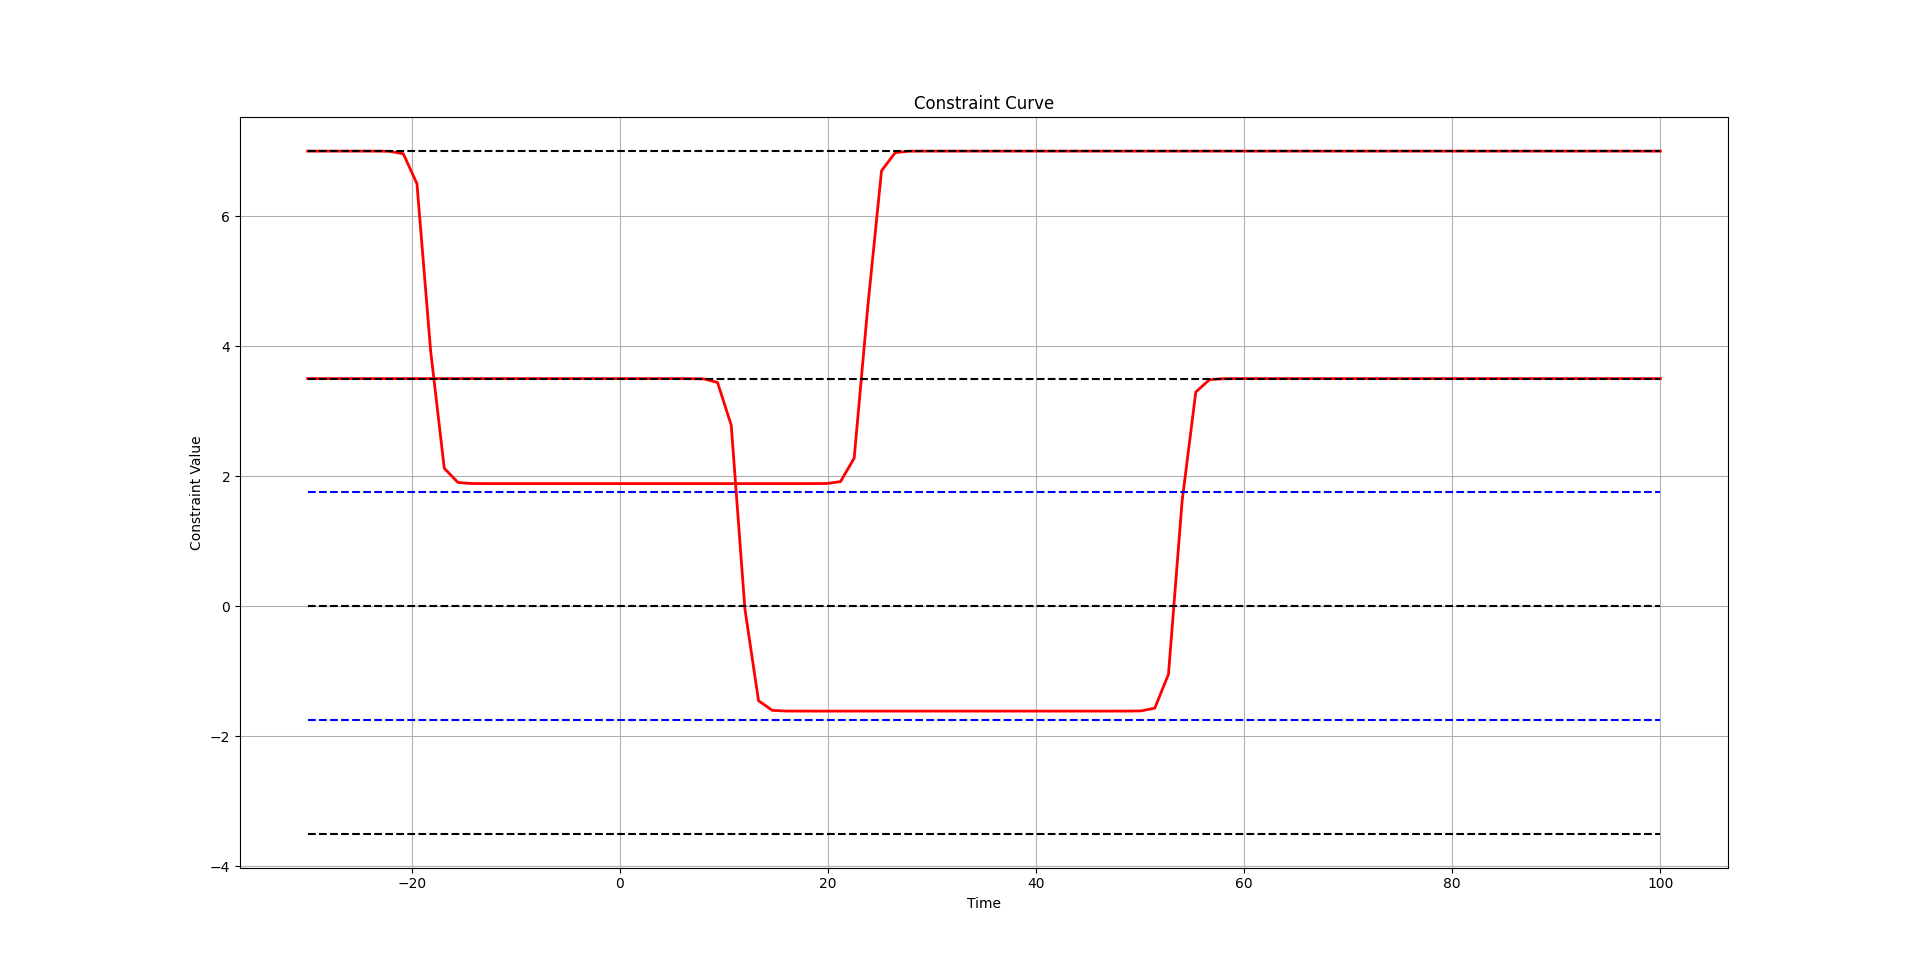
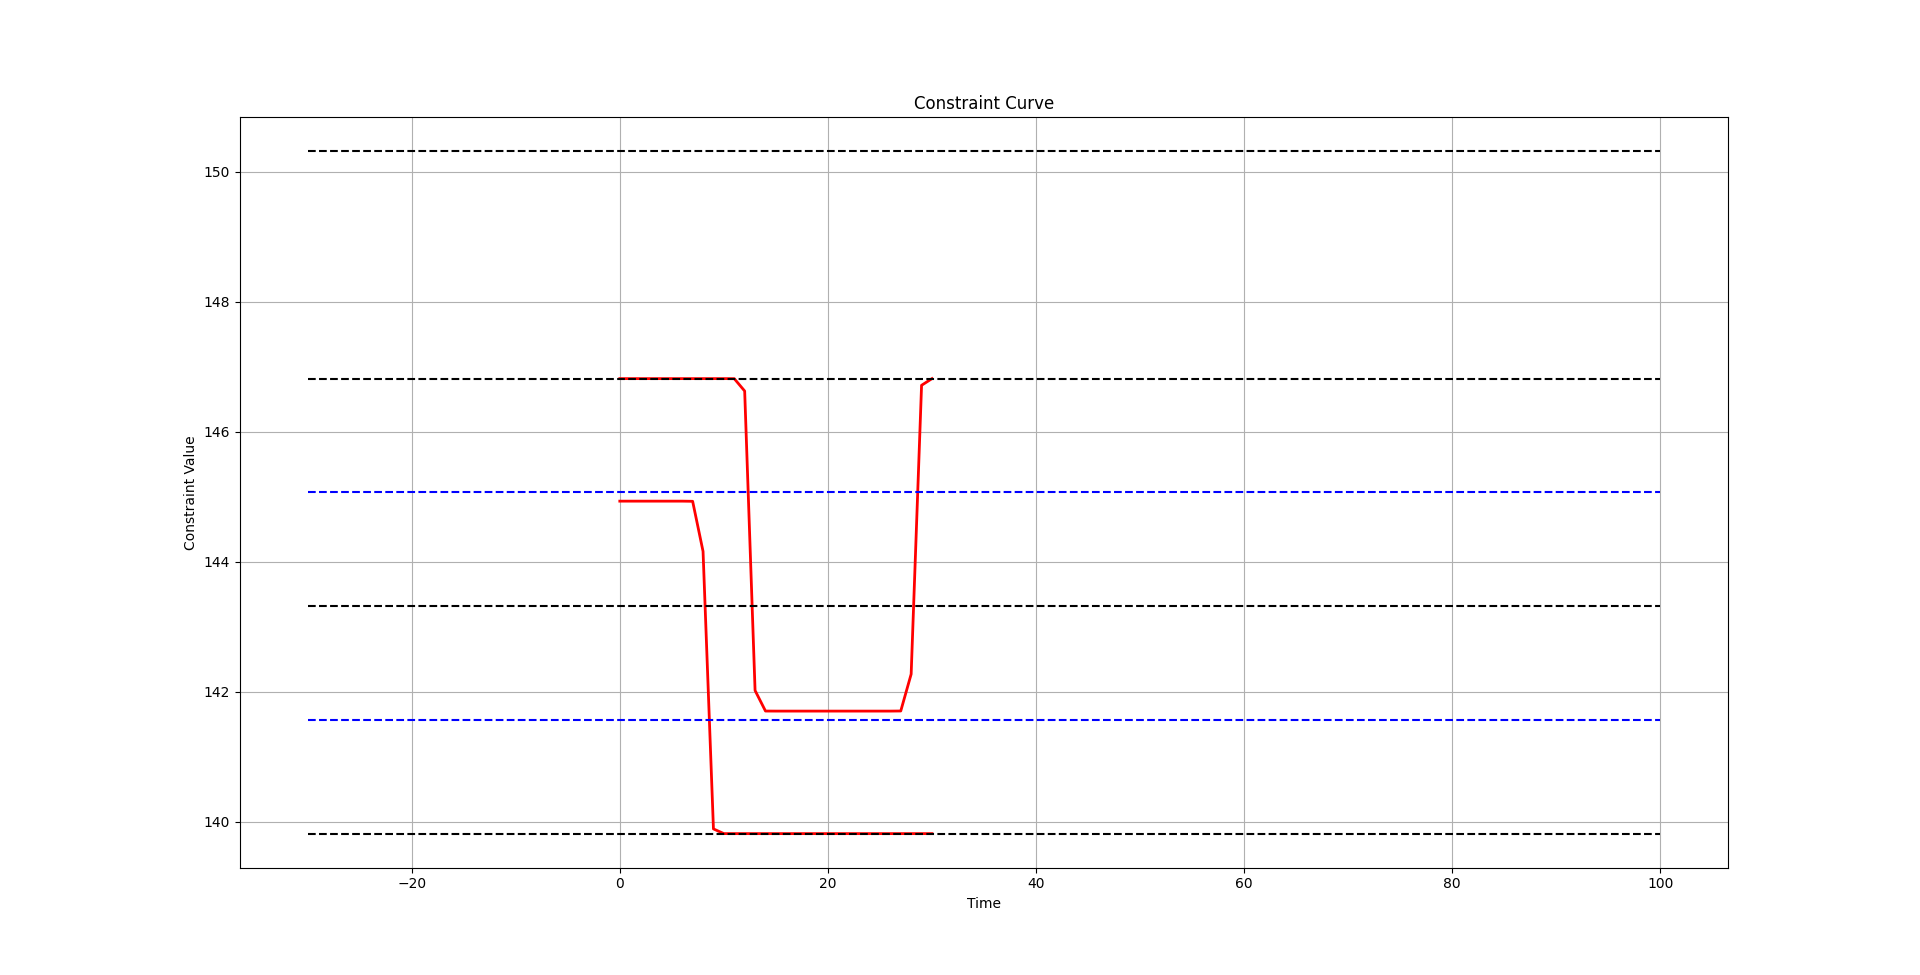
add constraint fig

diff --git a/Test_func/test_traffic_predict.py b/Test_func/test_traffic_predict.py
@@ -27,7 +27,7 @@ from util.utils import *
 # subprocess.run(command, shell=True)
 # exit()
 # #! --------------------------Run the command--------------------------
-Traffic = Traffic()
+Traffic = Traffic(N=30)
 # spawn the vehicle
 spawned_vehicles, center_line = Traffic.setup_complex_carla_environment()
 vehicle_list = spawned_vehicles
@@ -40,5 +40,76 @@ velocities = {
         'reference': carla.Vector3D(ref_velocity, 0, 0)  # Specifically for the truck
     }
 Traffic.set_velocity(vehicle_list,velocities)
+time.sleep(1)
 pred_traj = Traffic.predict_trajectory(vehicle_list)
-print(pred_traj)
+# print(pred_traj)
+
+
+leadLength = 6
+N = 12
+v0_i = 15
+leadWidth = 1.7
+laneWidth = 3.5
+
+
+class test:
+    def __init__(self, traffic_x, traffic_y, traffic_shift,traffic_sign, min_distx=5) -> None:
+        self.traffic_sign = traffic_sign
+        self.traffic_x = traffic_x
+        self.traffic_y = traffic_y
+        self.traffic_shift = traffic_shift
+        self.Time_headway = 0.5
+        self.min_distx = min_distx
+        self.L_tract=16.1544/3
+        self.L_trail=16.1544-self.L_tract
+        self.egoWidth = 2.54
+
+    def constraint(self, px):
+        func1 = self.traffic_sign * (self.traffic_sign*(self.traffic_y-self.traffic_shift)/2 + self.egoWidth + leadWidth) / 2 * \
+                    tanh(px - self.traffic_x + leadLength/2 + self.L_tract + v0_i * self.Time_headway + self.min_distx )  + self.traffic_shift/2 + 143.318146 /2
+        func2 = self.traffic_sign * (self.traffic_sign*(self.traffic_y-self.traffic_shift)/2 + self.egoWidth + leadWidth) / 2 * \
+                    tanh( - (px - self.traffic_x)  + leadLength/2 + self.L_trail + v0_i * self.Time_headway+ self.min_distx )  + self.traffic_shift/2+ 143.318146 /2
+        # print(func1 + func2)
+        # exit()
+        return func1 + func2
+
+# Create instances for traffic_x, traffic_y, and traffic_shift
+
+traffic_x = np.array([10*i for i in range(30)]).reshape(-1,1)
+traffic_x = pred_traj[3][0]
+
+traffic_x_2 = np.array([10*i+60 for i in range(30)]).reshape(-1,1)
+traffic_x_2 = pred_traj[0][0]
+
+
+traffic_shift =  -laneWidth 
+# traffic_shift = 0*traffic_shift
+# Create an instance of the test class
+
+my_test = test(traffic_x, traffic_y=-laneWidth/2, traffic_shift=-laneWidth, traffic_sign=1)
+my_test_2 = test(traffic_x_2, traffic_y=laneWidth/2, traffic_shift=laneWidth, traffic_sign=-1)
+
+# Time points at which to evaluate the constraint
+time_points = np.linspace(-30, 100, 100)  # Example time points
+# px = pred_traj[1][0
+px_traj = pred_traj[1][0]
+
+# Evaluate the constraint function at each time point
+
+constraint_values = [float(my_test.constraint(px)[0]) for px in pred_traj[1][0]]
+constraint_values_2 = [float(my_test_2.constraint(px)[0]) for px in pred_traj[1][0]]
+# Plot the constraint curve
+plt.figure(figsize=(12,4))
+plt.plot(constraint_values,'r', linewidth=2)
+plt.plot(constraint_values_2,'r', linewidth=2)
+plt.plot([-30,100],[center_line,center_line],'k--')
+plt.plot([-30,100],[center_line+laneWidth,center_line+laneWidth],'k--')
+plt.plot([-30,100],[center_line-laneWidth,center_line-laneWidth],'k--')
+plt.plot([-30,100],[center_line+2*laneWidth,center_line+2*laneWidth],'k--')
+plt.plot([-30,100],[center_line+laneWidth/2,center_line+laneWidth/2],'b--')
+plt.plot([-30,100],[center_line-laneWidth/2,center_line-laneWidth/2],'b--')
+plt.xlabel('Time')
+plt.ylabel('Constraint Value')
+plt.title('Constraint Curve')
+plt.grid(True)
+plt.show()

diff --git a/Traffic/Traffic.py b/Traffic/Traffic.py
@@ -87,10 +87,10 @@ class Traffic:
             pred_traj = np.zeros((2,self.N+1))
             for j in range(self.N+1):
                 # avoid the ego vehicle: truck
-                if i == 1:
-                    continue
+                # if i == 1:
+                #     continue
                 pred_traj[0,j] = vehicle_state[0] + vehicle_state[2] * j * self.dt
-                print("this is the velocity",vehicle_state[2])
+                # print("this is the velocity",vehicle_state[2])
                 pred_traj[1,j] = vehicle_state[1]
             self.trajectory.append(pred_traj)
         return self.trajectory

diff --git a/README.md b/README.md
@@ -60,6 +60,7 @@ This is the result of the MPC_PID_ACC with kalman filter (PID works every 0.2s, 
 </p>   
 <p float="left">
   <img src="Figure/CARLA_simulation_compare_ref_diffF.png" width="85%" /> 
+</p>   
 
 ## 2024/02/19 QunZhang
 TODO List: 
@@ -68,3 +69,8 @@ TODO List:
 2. lane changing
 3. decision master
 ```
+
+Here is the right lane changing constraint   
+<p float="left">
+  <img src="Figure/right_lane_constraint.png" width="85%" /> 
+</p>   
